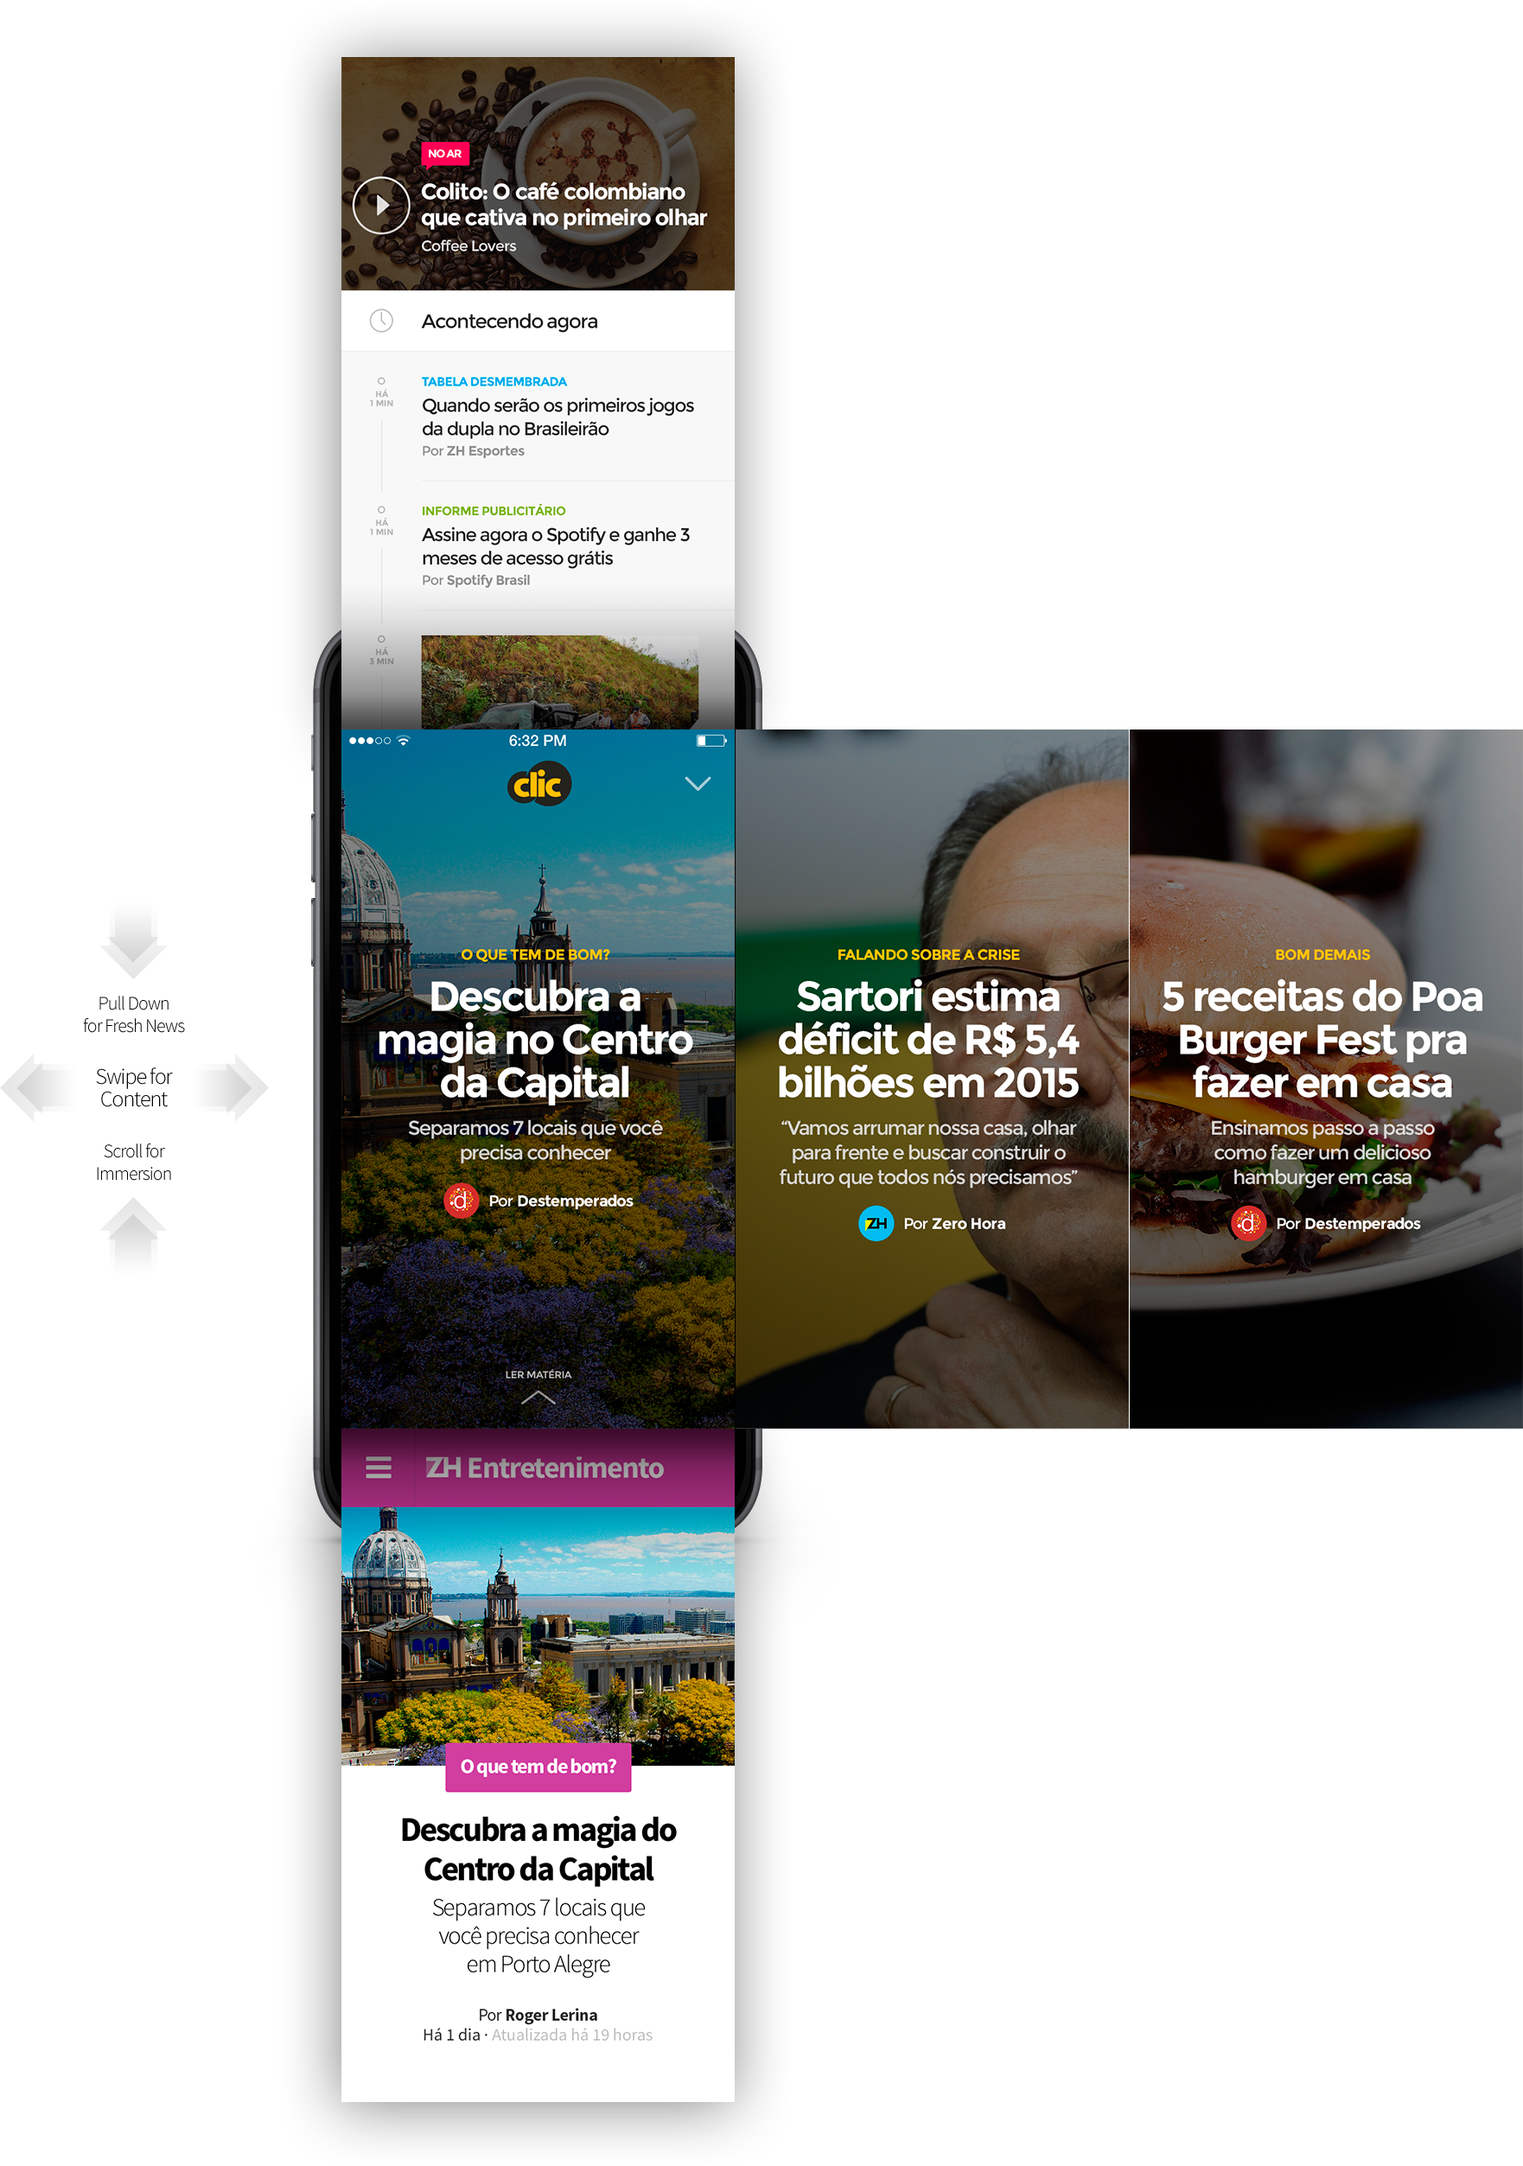
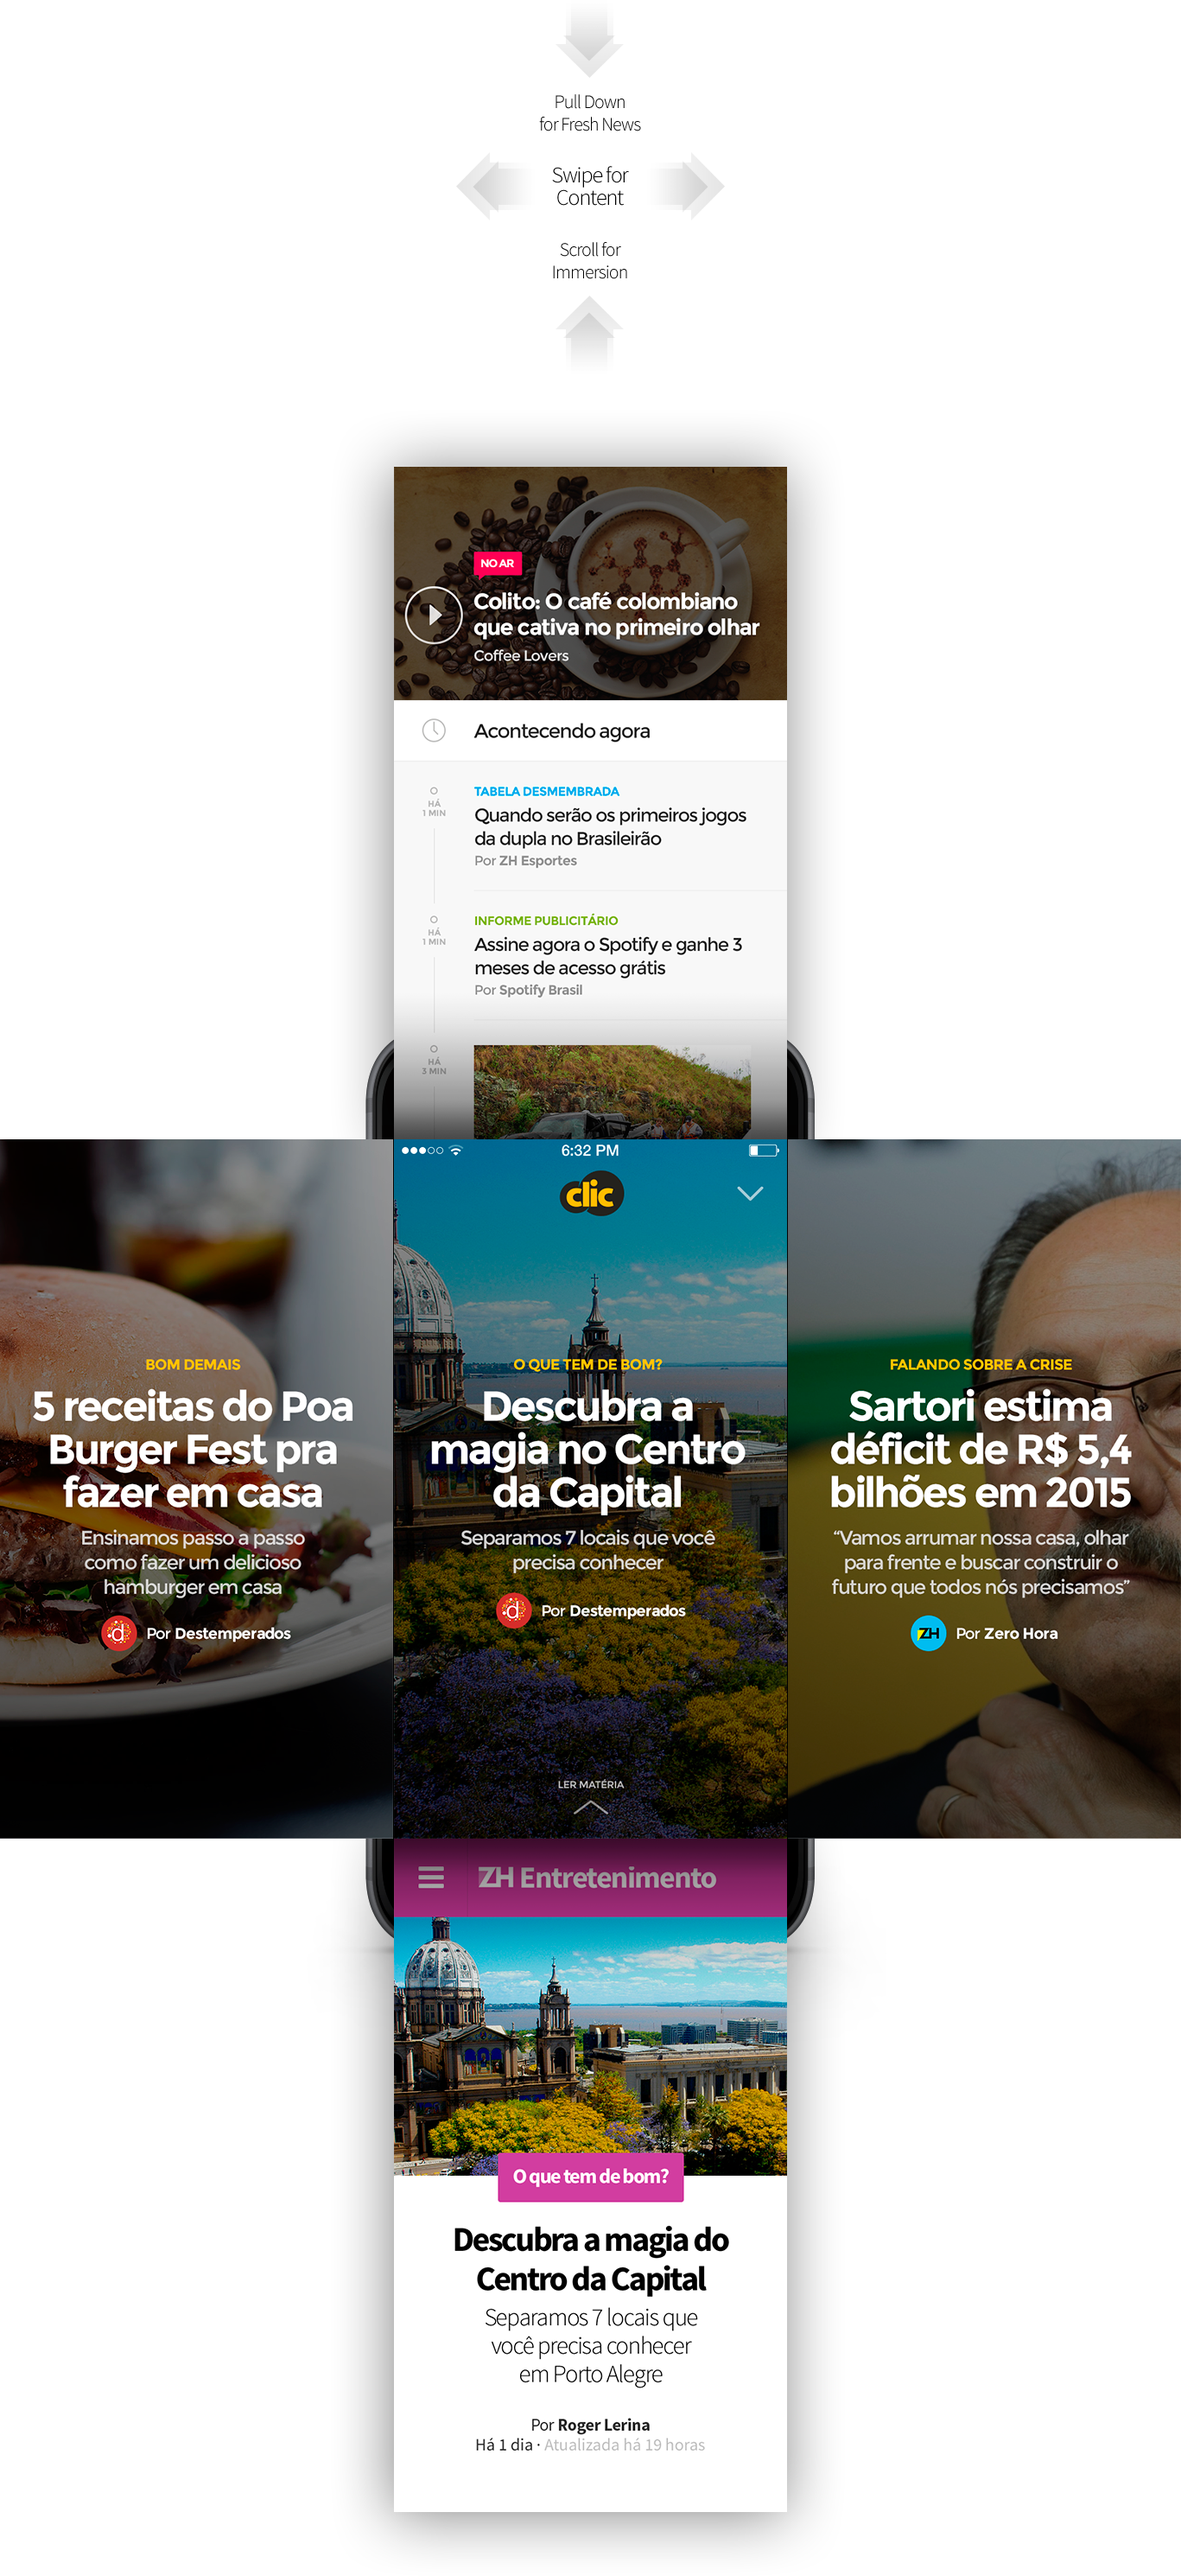
Clic
Clic e tentativas de breakpoint

diff --git a/main.css b/main.css
@@ -90,6 +90,10 @@ ul {
   width: 100%;
   max-width: 80rem;
 }
+.content {
+  border-bottom: 1rem;
+  border-color: rgb(48, 48, 48);
+}
 
 .content__about, .content__title, .content__whom {
   margin: 0 auto;
@@ -127,6 +131,27 @@ ul {
   width: 5.625rem;
   height: 2px;
 }
+
+/*
+ * breakpoints
+ */
+
+
+/*
+@media (min-width: 320px) {
+
+  .column .header{
+  max-width: 20rem;
+  overflow: hidden;}
+  
+}
+
+h2.content__title (min-width: 320px) {
+    font-size: 4.25rem;
+  }
+ */
+
+
 
 /*
  * contact
@@ -208,3 +233,25 @@ ul {
   background-image: url('images/gcolorado-5_socialshare.png');
   padding-top: 72.22222%;
 }
+
+/*
+ * clic
+ */
+
+.content__picture--clicconcept {
+  background-image: url('images/clic-1_concept.png');
+  padding-top: 217.99561%;
+}
+.content__picture--clicmenu {
+  background-image: url('images/clic-2_menu.png');
+  padding-top: 64.45686%;
+}
+.content__picture--cliclivehub {
+  background-image: url('images/clic-3_livehub.png');
+  padding-top: 61.67664%;
+}
+.content__picture--clicwebview {
+  background-image: url('images/clic-4_webview.png');
+  padding-top: 61.67664%;
+}
+

diff --git a/index.html b/index.html
@@ -52,6 +52,8 @@
       <div class="content__picture content__picture--socialshare"></div>
     </section>
 
+
+
     <section class="column content">
       <h2 class="content__title">
         Clic
@@ -65,10 +67,10 @@
         With Luciano Pouzada
       </p>
 
-      <div class="content__picture content__picture--homescreen"></div>
-      <div class="content__picture content__picture--consumption"></div>
-      <div class="content__picture content__picture--live-match"></div>
-      <div class="content__picture content__picture--socialshare"></div>
+      <div class="content__picture content__picture--clicconcept"></div>
+      <div class="content__picture content__picture--clicmenu"></div>
+      <div class="content__picture content__picture--cliclivehub"></div>
+      <div class="content__picture content__picture--clicwebview"></div>
     </section>
 
     <script src="main.js"></script>
